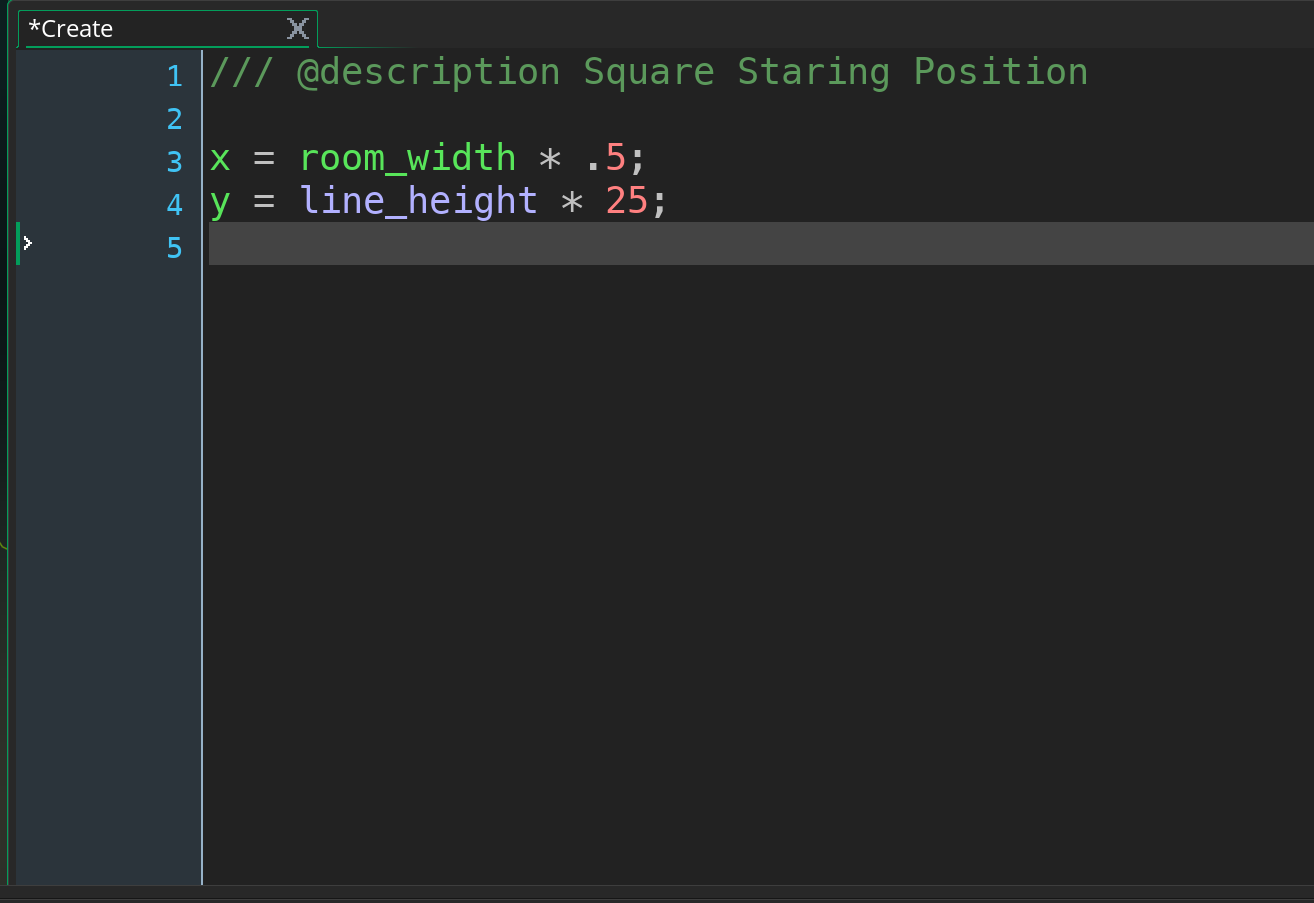
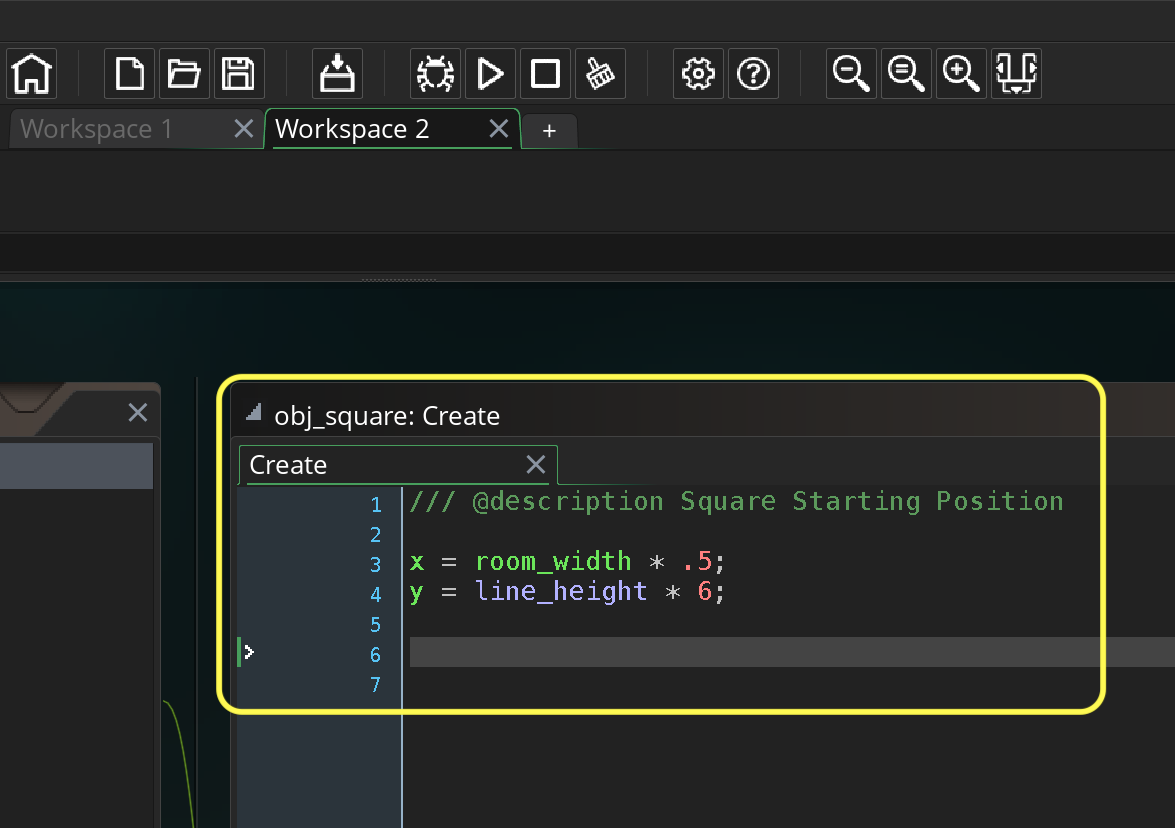
Update position objects

diff --git a/positioning-text-3/README.md b/positioning-text-3/README.md
@@ -30,7 +30,9 @@ In this case we want the middle of the room and we can divide the `room_width` v
 
 ##### `Step 3.`\|`MTP`|:small_blue_diamond: :small_blue_diamond: :small_blue_diamond:
 
-![alt_text](images/.png)
+Now *press* the <kbd>Play</kbd> button in the top menu bar to launch the game. We notice that it has the same problem that it is positioned based on it's top left corner.
+
+![Run game and square is not positioned correctly](images/squareTooLowGame.png)
 
 <img src="https://via.placeholder.com/500x2/45D7CA/45D7CA" alt="drawing" height="2px" alt = ""/>
 
